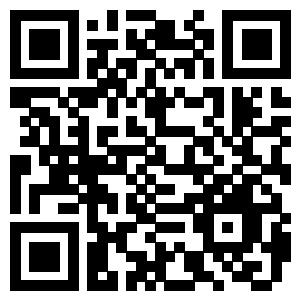
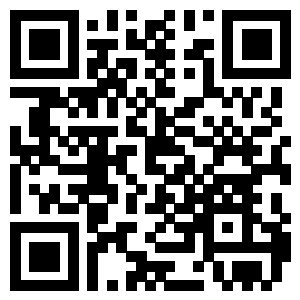
update migration and referral policy

diff --git a/policy/voken_referral_program.rst b/policy/voken_referral_program.rst
@@ -38,9 +38,9 @@ Whitelist Registration Referral Reward: 100%
 - Settled with Voken,
   will transfer to your wallet addresses automatically and immediately,
   process by contract.
-- ``301 Vokens`` for direct referral reward (Lv.1),
-  get one more level for each registration with your whitelisted address,
-  up to 15 levels (14+ referrals):
+- Get one more level for each registration with your whitelisted address,
+  ``301 Vokens`` for direct referral reward (Lv.1, default),
+  up to 15 levels (15+ referrals):
 
 =====  =====================================
 Level  Amount of reward (1,001 Vokens Total)
@@ -75,9 +75,9 @@ Sales Referral Reward: 35%
 - Settled with ETH,
   will transfer to your wallet addresses automatically and immediately,
   process by contract.
-- ``6%`` for direct referral reward (Lv.1),
-  get one more level for each registration with your whitelisted address,
-  up to 15 levels (14+ referrals):
+- Get one more level for each registration with your whitelisted address,
+  ``6%`` for direct referral reward (Lv.1, default),
+  up to 15 levels (15+ referrals):
 
 =====  ===========================
 Level  Referral reward (35% Total)

diff --git a/contracts/voken_migration.rst b/contracts/voken_migration.rst
@@ -15,8 +15,14 @@ snapshot at ``2019-04-15 00:00:00 UTC``.
 Transaction list:
 
 - `Tx Hash 0xfa08e3df56707476ec640c4979d2681b3dfff6be1cab9df2144fc7cdf31167fb`_
-- ...
+- `Tx Hash 0xc10630a4130f6ab4020f472feb3377171eabdd37cc6d0cfd25edc9c25d2674a0`_
+- `Tx Hash 0x91aad1f5756bb834ed47d7506a76b4fd82ff2f4e7e2ad06773985f14b6ecac09`_
+- `Tx Hash 0x277d89554dae3ff72be673ae91819d4edcd7a1a30ff78a453a18bd4059ce5abd`_
 
 
 .. _Tx Hash 0xfa08e3df56707476ec640c4979d2681b3dfff6be1cab9df2144fc7cdf31167fb: https://etherscan.io/tx/0xfa08e3df56707476ec640c4979d2681b3dfff6be1cab9df2144fc7cdf31167fb
+.. _Tx Hash 0xc10630a4130f6ab4020f472feb3377171eabdd37cc6d0cfd25edc9c25d2674a0: https://etherscan.io/tx/0xc10630a4130f6ab4020f472feb3377171eabdd37cc6d0cfd25edc9c25d2674a0
+.. _Tx Hash 0x91aad1f5756bb834ed47d7506a76b4fd82ff2f4e7e2ad06773985f14b6ecac09: https://etherscan.io/tx/0x91aad1f5756bb834ed47d7506a76b4fd82ff2f4e7e2ad06773985f14b6ecac09
+.. _Tx Hash 0x277d89554dae3ff72be673ae91819d4edcd7a1a30ff78a453a18bd4059ce5abd: https://etherscan.io/tx/0x277d89554dae3ff72be673ae91819d4edcd7a1a30ff78a453a18bd4059ce5abd
+
 

diff --git a/contracts/airdrop.rst b/contracts/airdrop.rst
@@ -5,9 +5,9 @@ Voken Airdrop Contract
 
 Hold :ref:`voken` for :ref:`airdrop_via_contract`.
 
-Contract address is ``0x2a0f5a9515A4c4579d1613e047a8C380B5994339``,
-deployed at `Tx Hash 0x2ce6...7005`_,
-block height ``7570464``.
+Contract address is ``0x4B14F1aaa878cCF70d58AEC682592dcD0Fe025BA``,
+deployed at `Tx Hash 0x6a10...e1a0`_,
+block height ``7575490``.
 
-.. _Tx Hash 0x2ce6...7005: https://etherscan.io/tx/0x2ce6d80bf5d005a05e10929fdf6ee1cca658dcc41defca8448e1c46748137005
+.. _Tx Hash 0x6a10...e1a0: https://etherscan.io/tx/0x6a10e3d183738d7f3e2da09aec8f649d8c61284c76bd24df4bd23a43d983e1a0
 

diff --git a/token/airdrop_via_contract.rst b/token/airdrop_via_contract.rst
@@ -27,7 +27,7 @@ Contract
    :width: 35 %
    :alt: qrcode_airdrop.png
 
-**0x2a0f5a9515A4c4579d1613e047a8C380B5994339**
+**0x4B14F1aaa878cCF70d58AEC682592dcD0Fe025BA**
 
 Just send **0 ETH** to :ref:`airdrop_contract` address above,
 you will receive **100-200 Vokens** randomly.
